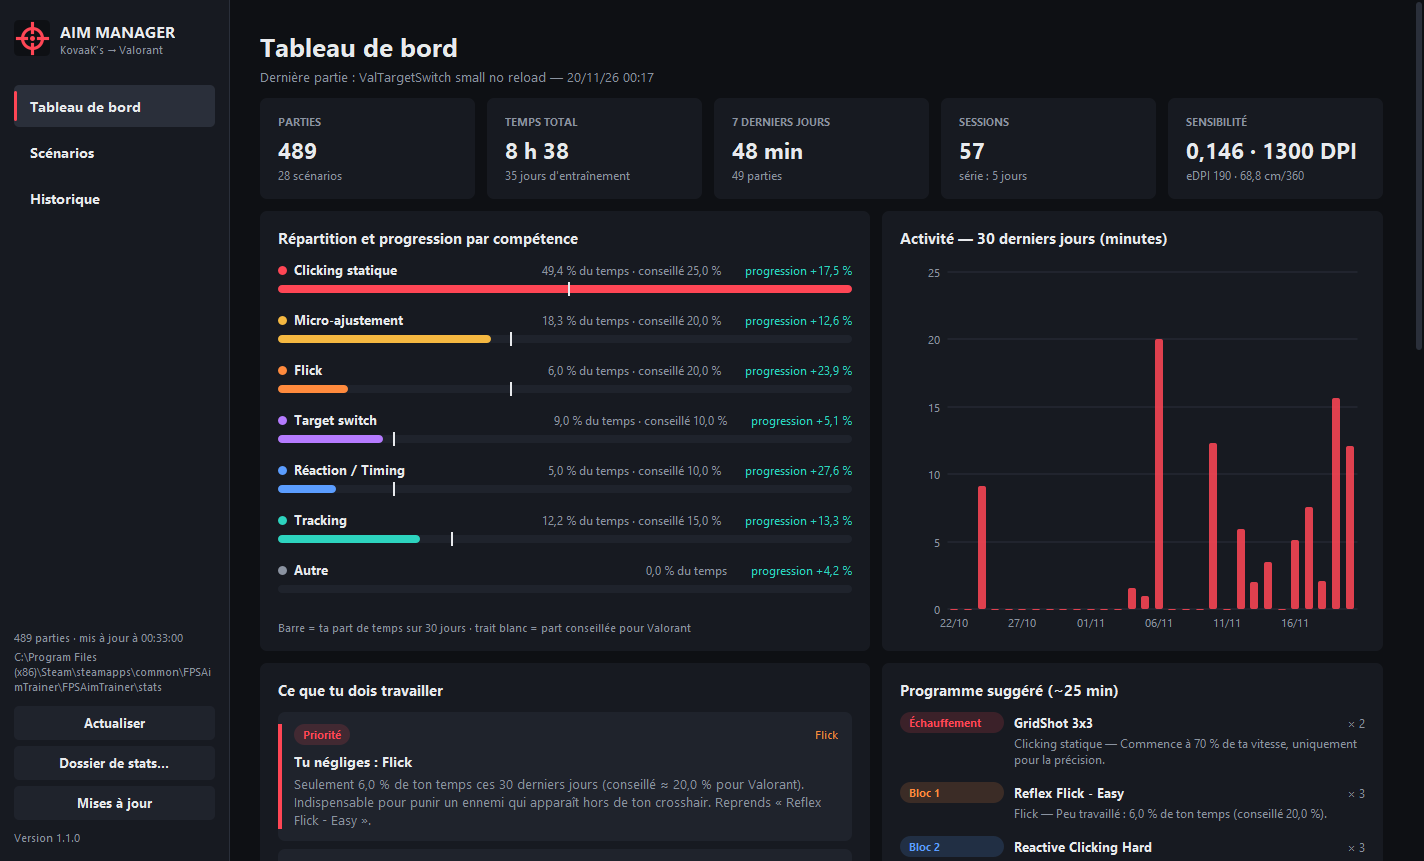
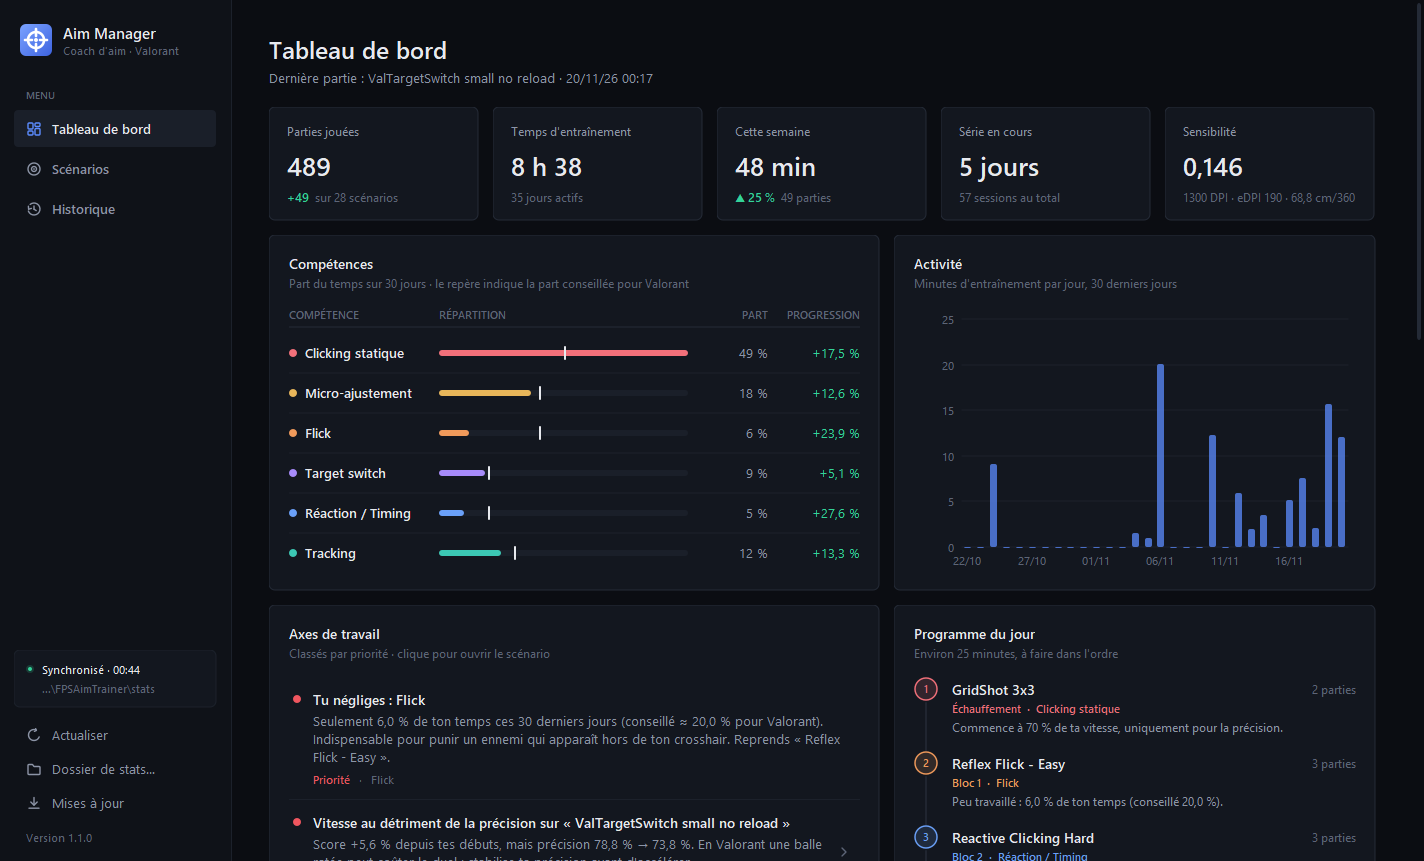
Captures de la nouvelle interface (1.2.0)

diff --git a/README.md b/README.md
@@ -10,7 +10,7 @@
 </p>
 
 <p align="center">
-  <a href="https://github.com/FireWxt/aim-manager-releases/releases/latest"><img src="https://img.shields.io/github/v/release/FireWxt/aim-manager-releases?label=version&color=ff4655&style=for-the-badge" alt="Version"></a>
+  <a href="https://github.com/FireWxt/aim-manager-releases/releases/latest"><img src="https://img.shields.io/github/v/release/FireWxt/aim-manager-releases?label=version&color=5b8cff&style=for-the-badge" alt="Version"></a>
   <img src="https://img.shields.io/badge/Windows-10%20%7C%2011-0078D6?style=for-the-badge&logo=windows&logoColor=white" alt="Windows">
   <img src="https://img.shields.io/github/downloads/FireWxt/aim-manager-releases/total?color=2dd4bf&style=for-the-badge&label=t%C3%A9l%C3%A9chargements" alt="Téléchargements">
 </p>
